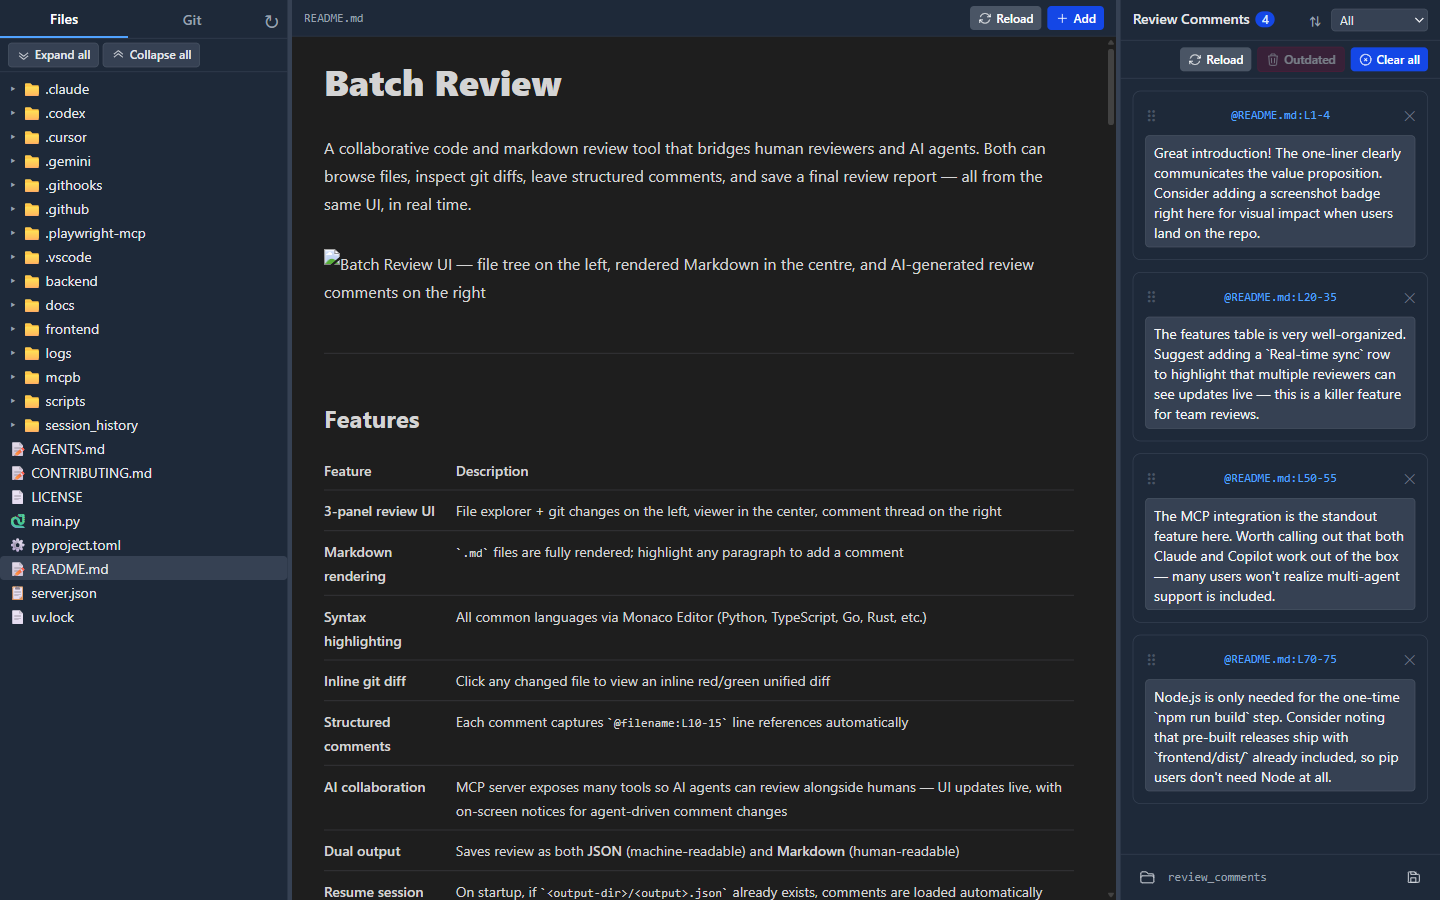
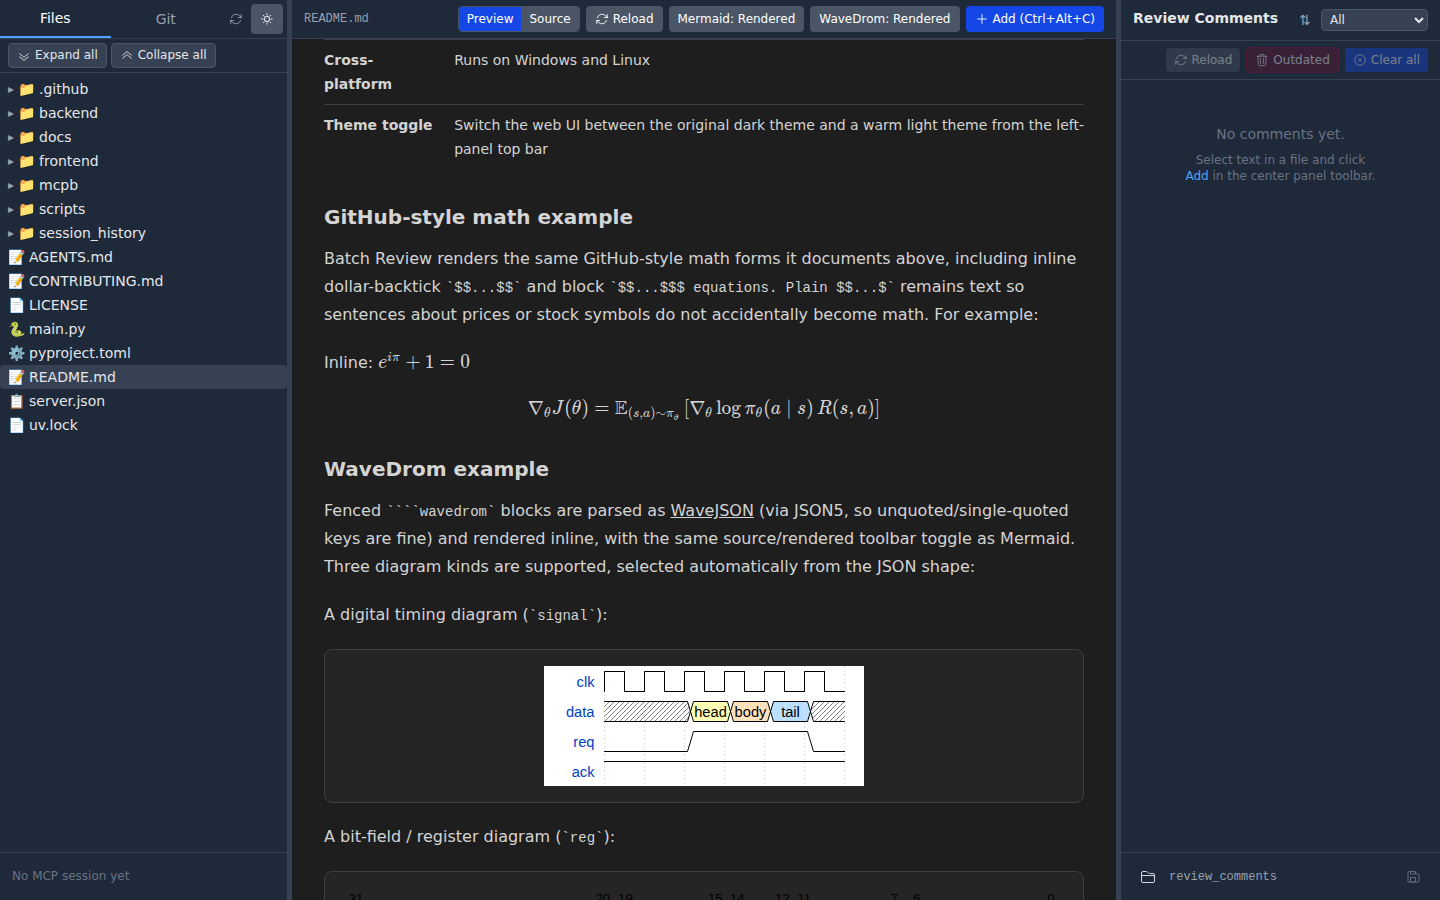
Update README screenshot to demo math and WaveDrom rendering

diff --git a/session_history/2026-07-01_update-readme-screenshot-math-wavedrom.md b/session_history/2026-07-01_update-readme-screenshot-math-wavedrom.md
@@ -1,0 +1,54 @@
+# Session: Update README screenshot to show Math and WaveDrom rendering
+
+## Agent harness
+- Harness: GitHub Copilot coding agent (cloud)
+- Version: unavailable (cloud coding agent session; no local Cursor CLI transcript to extract exact version)
+
+## Model
+- Model: Claude Sonnet 4.6
+- Provider: Anthropic (via GitHub Copilot)
+
+## Token usage
+- Input tokens: unavailable
+- Output tokens: unavailable
+- Total tokens: unavailable
+<!-- Cloud coding agent session; no local stream-json transcript available to extract exact counts. -->
+
+## Prompt / conversation
+
+### User
+Also update the screenshot of the README.md to demo it can show markdown with Math equations and waveform
+
+### Agent
+Replaced `docs/screenshot.png` with a fresh screenshot of the running Batch Review app that
+demonstrates the KaTeX math rendering and WaveDrom diagram rendering documented in `README.md`.
+
+- Built the frontend (`cd frontend && npm ci && npm run build`) and synced the Python backend
+  (`uv sync`, installing Python 3.13 via `uv python install 3.13`) to run the app locally.
+- Started `uv run batch-review --root . --skip-build --no-browser` against this repository's own
+  checkout (so the file tree in the screenshot matches the real repo layout) on `127.0.0.1:9101`.
+- Used a standalone Playwright (`playwright-core` driving the sandbox's system Chromium at
+  `/usr/bin/chromium`) script to open the app, click `README.md` in the file tree, and scroll the
+  center panel to the "GitHub-style math example" / "WaveDrom example" sections added in previous
+  sessions, then captured a 1440×900 screenshot showing the file tree on the left, the rendered
+  inline/block KaTeX equations and a rendered WaveDrom timing diagram in the center, and the empty
+  review-comments panel on the right.
+- Overwrote `docs/screenshot.png` with the new capture and updated the image `alt` text in
+  `README.md` to describe the math equations and WaveDrom diagram now visible in the screenshot
+  (previously it only described the generic 3-panel layout).
+- Killed the temporary local `batch-review` server processes afterward; no repository files other
+  than the screenshot and its `README.md` reference were modified.
+
+## Files changed
+- `docs/screenshot.png` — replaced with a new screenshot showing rendered math equations and a
+  WaveDrom timing diagram in the center panel
+- `README.md` — updated the screenshot image `alt` text to mention math equations and the WaveDrom
+  diagram
+
+## Reproduction steps
+1. Check out the base commit before this change.
+2. Build the frontend (`cd frontend && npm ci && npm run build`) and sync the backend (`uv sync`).
+3. Run `uv run batch-review --root . --skip-build --no-browser` to serve the app locally.
+4. Use a Playwright/Chromium script (or the app in a browser) to open `README.md`, scroll to the
+   "GitHub-style math example" / "WaveDrom example" sections, and capture a 1440×900 screenshot.
+5. Save the capture over `docs/screenshot.png` and update the README `alt` text to match.

diff --git a/README.md b/README.md
@@ -2,7 +2,7 @@
 
 A collaborative code and markdown review tool that bridges human reviewers and AI agents. Both can browse files, inspect git diffs, leave structured comments, and save a final review report — all from the same UI, in real time.
 
-![Batch Review UI — file tree on the left, rendered Markdown in the centre, and AI-generated review comments on the right](https://raw.githubusercontent.com/hevangel/batch-review-mcp/main/docs/screenshot.png)
+![Batch Review UI — file tree on the left, rendered Markdown with GitHub-style math equations and a WaveDrom timing diagram in the centre, and the review comments panel on the right](https://raw.githubusercontent.com/hevangel/batch-review-mcp/main/docs/screenshot.png)
 
 ---
 
